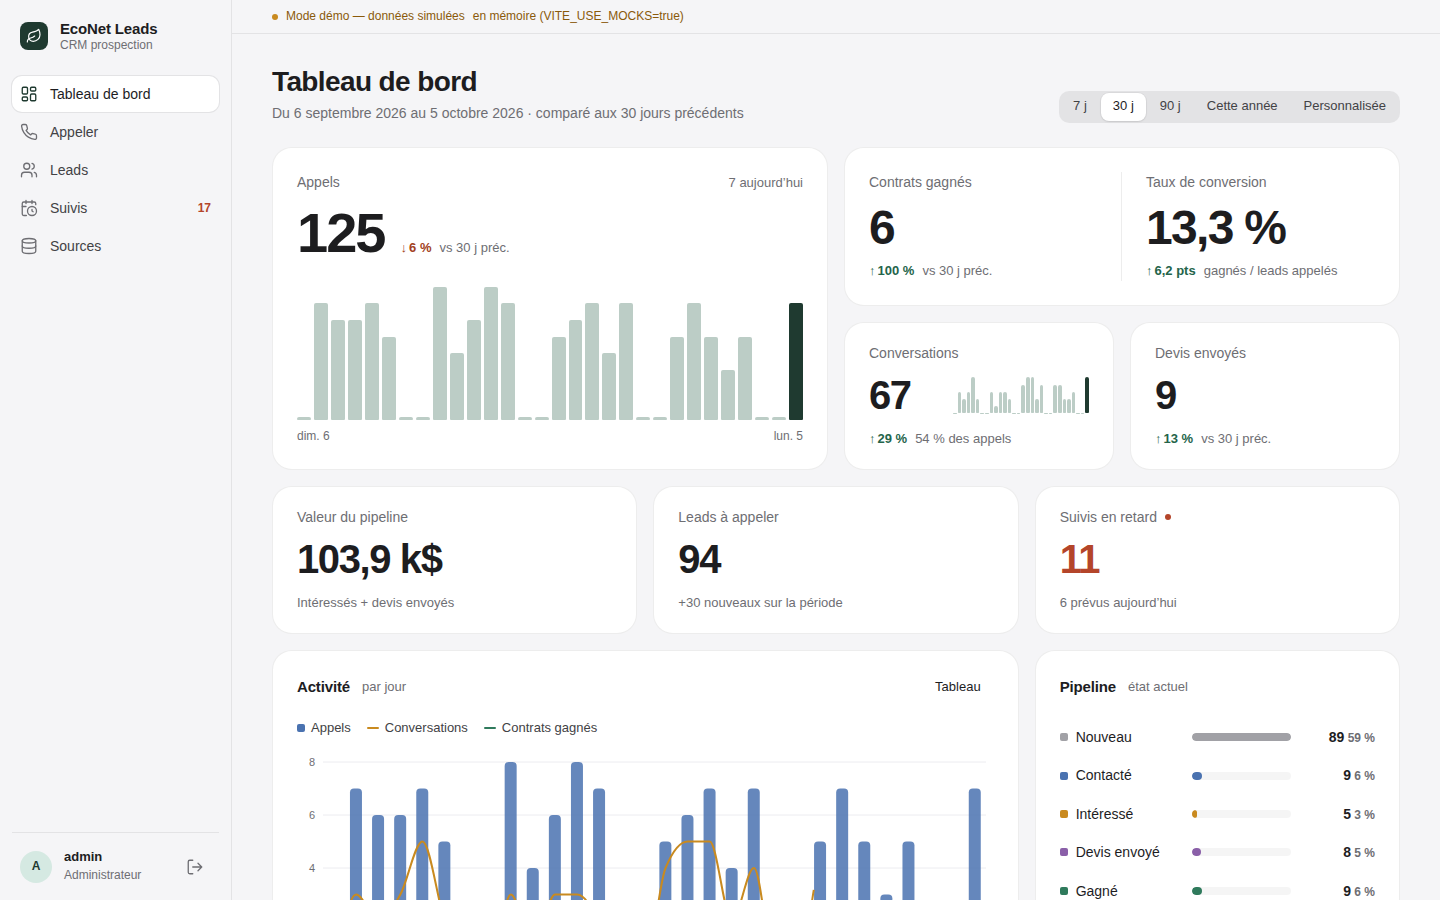
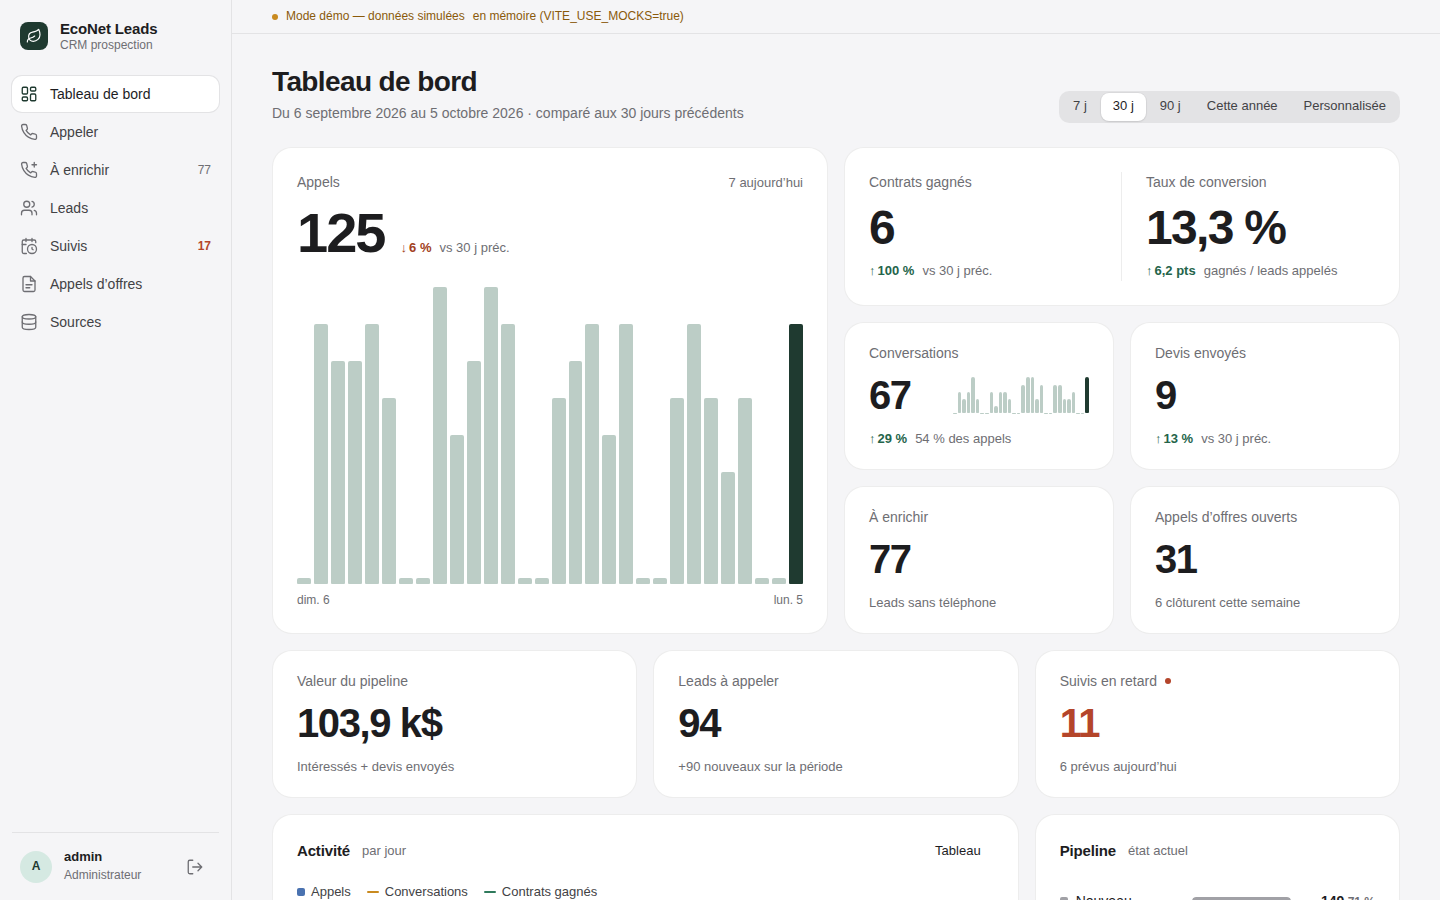
Document enrichment, tenders and ZIP upload; add screenshots
Claude-Session: https://claude.ai/code/session_01SVRyKBUX6KUvd5JAhYKG6A

diff --git a/README.md b/README.md
@@ -9,11 +9,23 @@ businesses imported from open data, cold-call them, and track performance.
 - **Leads** (`/leads`): server-side paged/sorted table, filters synced to the URL,
   CSV export, detail drawer (`/leads/:id`) with status change, value/assignee, timeline
   and "Appeler maintenant".
+- **À enrichir** (`/enrich`): leads without a phone (business register, building permits…),
+  one at a time. "Chercher le numéro" opens a Google search in a new tab; the phone field
+  formats as you type ((514) 555-1234) and validates NANP numbers; Enter saves
+  (`PATCH /api/businesses/{id}/phone`) and moves to the next lead, which joins the call
+  queue. Keys work even while the phone field has focus: G search, P skip, N do-not-call.
+  Leads without a phone also get the search + add-phone control in the lead drawer.
 - **Suivis** (`/follow-ups`): follow-ups grouped as En retard / Aujourd'hui / Cette semaine.
+- **Appels d'offres** (`/tenders`): public cleaning tenders from CanadaBuys and SEAO —
+  summary strip, filters synced to the URL ("ouverts seulement" on by default), table by
+  closing date with a countdown (red under 3 days), inline status, link to the notice,
+  and a drawer (`/tenders/:id`) with status and notes (saved on blur or ⌘/Ctrl+Enter).
+  Awarded SEAO contracts show their end / renewal date instead of a closing date.
 - **Tableau de bord** (`/`): KPIs with comparison to the previous period, activity,
   pipeline, call outcomes, breakdown by type/city/source, team leaderboard.
 - **Sources** (`/sources`, ADMIN): data sources, imports and job history (polls every 3 s
-  while a job runs).
+  while a job runs). The business register (`BULK_FILE`) also takes "Importer un fichier":
+  the official ZIP (~225 MB) is uploaded with a progress bar, then imported server-side.
 
 The UI is in French. It talks to the Spring Boot backend (`Econet-leads-backend`); the
 API contract it is built against lives in the backend repo / project docs. Types in
@@ -24,6 +36,9 @@ API contract it is built against lives in the backend repo / project docs. Types
 | Dashboard | ![Dashboard](docs/screenshots/02-dashboard.png) |
 | Call screen | ![Call](docs/screenshots/03-call-desktop.png) |
 | Call screen (mobile) | ![Call mobile](docs/screenshots/04-call-mobile.png) |
+| À enrichir | ![Enrich](docs/screenshots/11-enrich.png) |
+| Appels d'offres | ![Tenders](docs/screenshots/12-tenders.png) |
+| Tender detail | ![Tender detail](docs/screenshots/13-tender-detail.png) |
 
 More in [`docs/screenshots/`](docs/screenshots/).
 
@@ -71,7 +86,11 @@ on and is used by `npm run dev:mock` (`vite --mode mock`). Put personal override
 `VITE_USE_MOCKS=true` installs a `fetch` interceptor (`src/mocks/`) that implements
 every endpoint of the contract with ~150 generated Québec businesses (CPE, cliniques,
 restaurants, bureaux… in Montréal, Laval, Longueuil, Québec, Gatineau, Sherbrooke…),
-60 days of simulated calls, due/overdue follow-ups, data sources and import jobs.
+60 days of simulated calls, due/overdue follow-ups, data sources and import jobs, plus
+~60 phone-less leads from the business register and Montréal building permits (with
+`sourceDetails`) and ~40 CanadaBuys / SEAO tenders. Adding a phone moves the lead into the
+call queue; numbers in the fictional 555-01xx range are rejected by the mock server so the
+inline server-error state can be seen. ZIP uploads are simulated with progress.
 State is kept in memory, so logging a call updates the queue, follow-ups and dashboard;
 it resets on page reload. Token expiry (15 min) and refresh are simulated too.
 
@@ -91,7 +110,7 @@ emitted in production builds.
 | `npm run build` | `tsc -b` (strict type-check) then `vite build` into `dist/` |
 | `npm run preview` | Serve `dist/` locally on :5173 |
 | `npm run lint` | ESLint (flat config, typescript-eslint, react-hooks) |
-| `npm test` | Vitest unit tests (API client refresh flow, formatting helpers) |
+| `npm test` | Vitest unit tests (API client refresh flow and uploads, formatting, phone formatter/validator, Google search URL, tender helpers) |
 
 ## Project layout
 
@@ -101,7 +120,9 @@ src/
                 session.ts (tokens in localStorage), endpoints.ts (typed calls), types.ts
   auth/         AuthContext (login/logout, role checks)
   components/   Layout (sidebar / mobile tab bar), OutcomeForm, LeadCard, CallHistory, Widget, …
-  lib/          format.ts (CAD, %, phone, French relative dates), dates.ts, status.ts (fixed colours), leadFilters.ts
+  hooks/        useSavePhone, useUpdateTender (mutations shared by several screens)
+  lib/          format.ts (CAD, %, phone, French relative dates), dates.ts, status.ts (fixed colours), leadFilters.ts,
+                phone.ts (live formatting, validation, search link), tenders.ts (status meta, countdown, URL filters)
   mocks/        dev-only mock backend
   pages/        one file per screen (+ co-located CSS)
   styles/       global.css (design tokens)
